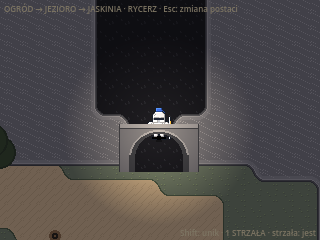
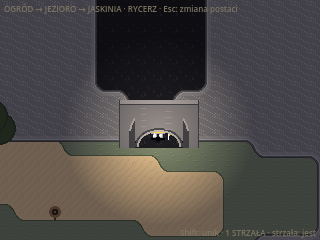
Map 1: arch canopy v2.3 — roof covers mouth, player hides under lintel

diff --git a/README.md b/README.md
@@ -47,3 +47,4 @@ Test trasy i zrzuty: `xvfb-run -a godot --rendering-driver opengl3 --path . -s m
 Łuk 5×3 (x214–218, y34–36), wejście 3 kafle (x215–217, y34), komnata x213–218, y26–32 (+ przejście y33). cave_rect = [3408, 416, 96, 128] px. Artist może przerysować łuk na 4 kafle.
 
 - Arch canopy v2.2: cave arch roof moved to canopy layer; ground under opening is cave floor.
+- Arch canopy v2.3: dach łuku wydłużony (y34–36), postać chowa się pod wejściem.
